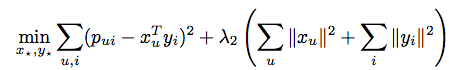
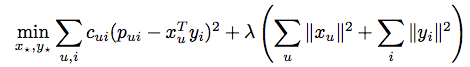
update wrmf

Changed region(s): [[0.0312, 0.0597, 0.9978, 0.9552], [0.1247, 0.7761, 0.1871, 0.9552], [0.8107, 0.7761, 0.8419, 0.9552]]

diff --git a/_posts/2017-09-24-结合librec源代码读论文:名字没总结好系列.md b/_posts/2017-09-24-结合librec源代码读论文:名字没总结好系列.md
@@ -17,10 +17,17 @@ author: Danyang Liu
 
 ![1](../images/alg/other/wrmf/w1.png)
 
-其中：
-1. r<sub>ui<sub>:在显示反馈数据集中表示用户u对产品i的偏好评分；在隐式反馈数据集中表示用户行为的观测，如，用户u购买产品i的次数、用户u观看节目i上频率或者用户u花费在网页i上的时间等等。
-2. p<sub>ui<sub>二元变量，如果用户u消费了产品i，则表明u喜欢i。总结如下：
-
 ![2](../images/alg/other/wrmf/w2.png)
+
+![3](../images/alg/other/wrmf/w3.png)
+
+其中：
+1. r<sub>ui</sub>:在显示反馈数据集中表示用户u对产品i的偏好评分；在隐式反馈数据集中表示用户行为的观测，如，用户u购买产品i的次数、用户u观看节目i上频率或者用户u花费在网页i上的时间等等。
+2. p<sub>ui</sub>:二元变量，如果用户u消费了产品i，则表明u喜欢i。
+3. c<sub>ui</sub>:信度水平,引入信度水平的原因：比如用户购买了产品送给他人，自己也许并不喜欢，又比如用户观看某一电视很长时间，也许只是睡着了，而并不一定就喜欢那个节目，另外，用户没有购买某产品，也许只是因为不知道该产品，并不一定不喜欢。因此，用不同的信度水平表示用户偏好某产品的可能，随着 的增加，用户喜欢该产品的信度越高。
+
+x<sub>u</sub>表示用户因子向量，y<sub>i</sub>表示物品因子向量，本质上来看，这两个矩阵是将用户和产品映射到隐向量空间中，基本思想与矩阵分解中处理方法一致。
+
+
 
 
